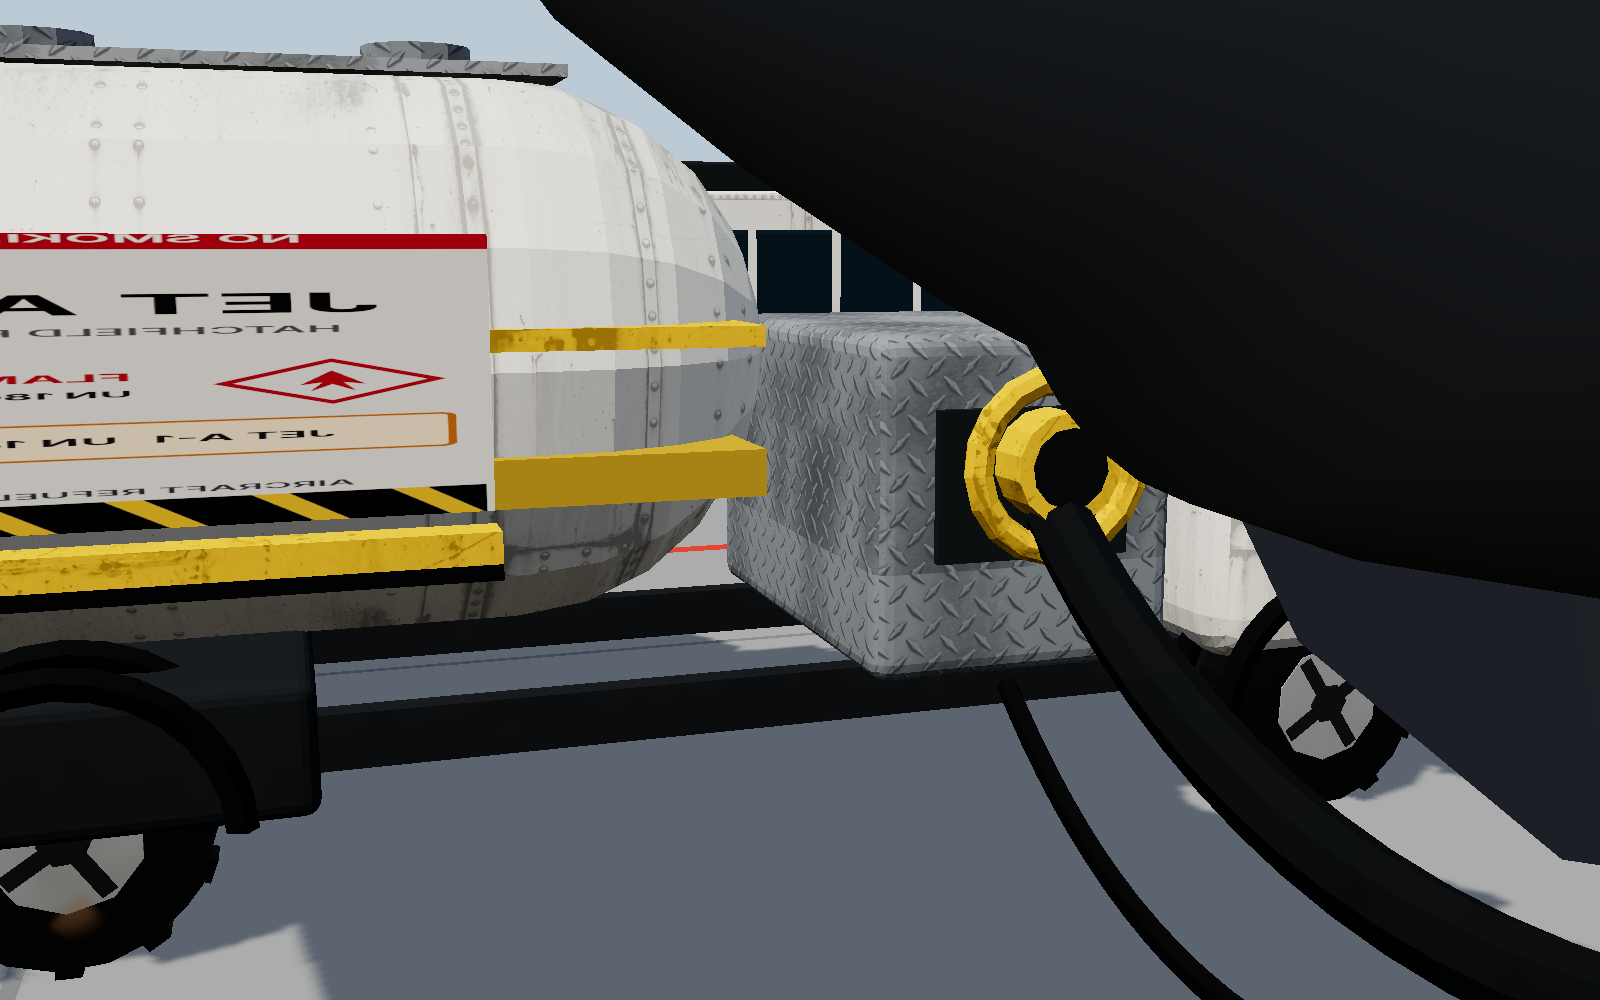
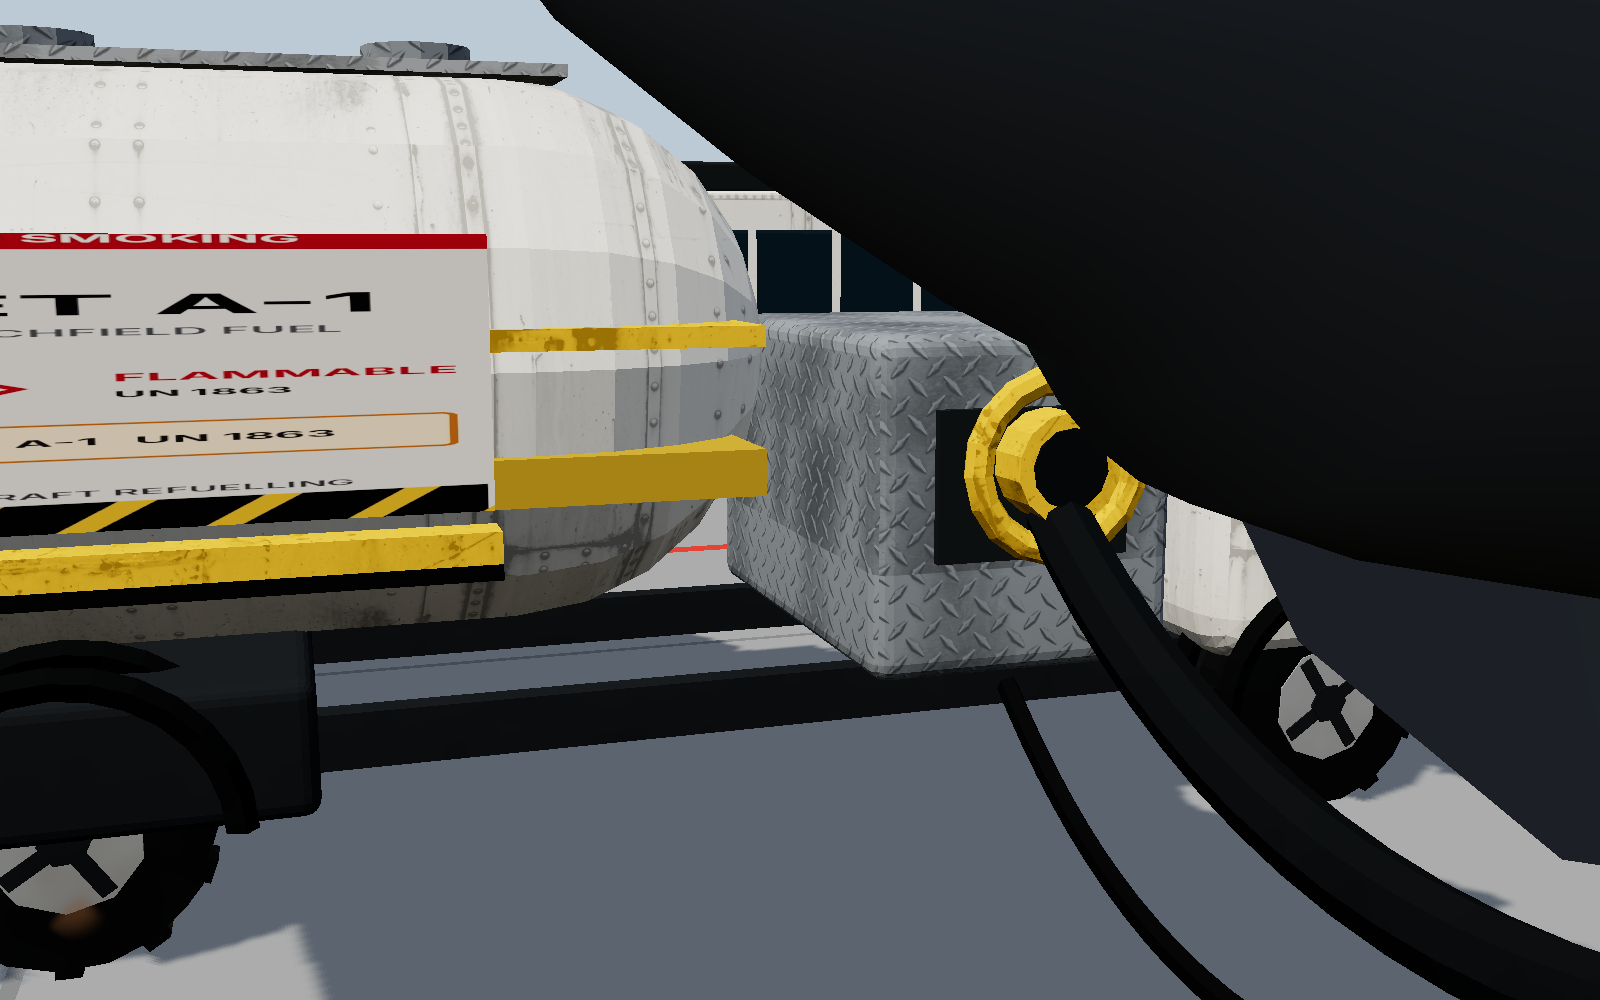
Unmirror apron placard text so both sides read outward.
U grows toward the viewer's right on each side, and a geometry check covers the five turnaround trucks.

diff --git a/src/render/vehicles.test.ts b/src/render/vehicles.test.ts
@@ -85,6 +85,18 @@ describe('ground vehicle models', () => {
     disposeVehicleRig(rig)
   })
 
+  it('reads placard text left to right from the outside of both sides', () => {
+    const kinds = ['fuel_truck', 'catering_truck', 'belt_loader', 'pushback_tug', 'pax_bus'] as const
+    for (const kind of kinds) {
+      const model = vehicleModel(kind)
+      const geos = [vehicleGeometry(kind, '#3a7bd5')]
+      for (const part of MODEL_PARTS[model]) geos.push(vehiclePartGeometry(kind, '#3a7bd5', part))
+      let sides = 0
+      for (const geo of geos) sides += placardSides(geo)
+      expect(sides, kind).toBe(2)
+    }
+  })
+
   it('paints a fictional side livery on each turnaround vehicle', () => {
     const kinds = ['fuel_truck', 'catering_truck', 'belt_loader', 'pushback_tug', 'pax_bus'] as const
     for (const kind of kinds) {
@@ -136,6 +148,60 @@ describe('ground vehicle models', () => {
     fleet.dispose()
   })
 })
+
+/**
+ * How many outward placard faces read left-to-right and right-side-up.
+ * U must increase toward the viewer's right; V must increase upward
+ * (texture v = 1 is the top of the atlas, where the words start).
+ */
+function placardSides(geo: THREE.BufferGeometry): number {
+  const pos = geo.getAttribute('position')
+  const uv = geo.getAttribute('uvm')
+  const tid = geo.getAttribute('tid')
+  if (!pos || !uv || !tid) return 0
+  const a = new THREE.Vector3()
+  const b = new THREE.Vector3()
+  const c = new THREE.Vector3()
+  const ab = new THREE.Vector3()
+  const ac = new THREE.Vector3()
+  const n = new THREE.Vector3()
+  const right = new THREE.Vector3()
+  const up = new THREE.Vector3(0, 1, 0)
+  const seen = new Set<number>()
+  let sides = 0
+  for (let i = 0; i + 2 < pos.count; i += 3) {
+    if (tid.getX(i) !== 6) continue
+    a.fromBufferAttribute(pos, i)
+    b.fromBufferAttribute(pos, i + 1)
+    c.fromBufferAttribute(pos, i + 2)
+    ab.subVectors(b, a)
+    ac.subVectors(c, a)
+    n.crossVectors(ab, ac)
+    if (n.lengthSq() < 1e-8 || Math.abs(n.z) < Math.abs(n.y)) continue
+    n.normalize()
+    const sign = n.z > 0 ? 1 : -1
+    if (seen.has(sign)) continue
+    right.crossVectors(n.clone().negate(), up).normalize()
+    const sample = [a, b, c]
+    const us = [uv.getX(i), uv.getX(i + 1), uv.getX(i + 2)]
+    const vs = [uv.getY(i), uv.getY(i + 1), uv.getY(i + 2)]
+    let left = 0
+    let rightI = 0
+    let low = 0
+    let high = 0
+    for (let k = 1; k < 3; k++) {
+      if (sample[k].dot(right) < sample[left].dot(right)) left = k
+      if (sample[k].dot(right) > sample[rightI].dot(right)) rightI = k
+      if (sample[k].y < sample[low].y) low = k
+      if (sample[k].y > sample[high].y) high = k
+    }
+    expect(us[rightI], `u ${sign > 0 ? '+' : '-'}Z`).toBeGreaterThan(us[left] + 1e-4)
+    expect(vs[high], `v ${sign > 0 ? '+' : '-'}Z`).toBeGreaterThan(vs[low] + 1e-4)
+    seen.add(sign)
+    sides++
+  }
+  return sides
+}
 
 /** Vertices in the whole model: static shell plus every animated part. */
 function fullCount(model: (typeof ALL_MODELS)[number], color = '#3a7bd5'): number {

diff --git a/src/render/vehicleModels.ts b/src/render/vehicleModels.ts
@@ -424,8 +424,9 @@ class Kit {
   }
 
   /**
-   * Side sign from the shared livery atlas. +X is the nose, so the words
-   * read correctly when you stand on either side of the truck.
+   * Side sign from the shared livery atlas. The plane faces outward.
+   * On the +Z side the nose (+X) is to the viewer's right, so U grows with X.
+   * On the -Z side the nose is to the viewer's left, so U runs the other way.
    * `z` is how far outside the centreline the sign sits.
    */
   livery(cell: number, w: number, h: number, x: number, y: number, z: number, face: 1 | -1, name = '') {
@@ -454,7 +455,7 @@ class Kit {
     for (let i = 0; i < pos.count; i++) {
       let u = (pos.getX(i) - x0) / dx
       const v = (pos.getY(i) - y0) / dy
-      if (face > 0) u = 1 - u
+      if (face < 0) u = 1 - u
       uv.setXY(i, (cell + 0.02 + u * 0.96) / LIVERY_CELLS, 0.02 + v * 0.96)
     }
   }

diff --git a/scripts/veh-apron.html b/scripts/veh-apron.html
@@ -194,6 +194,7 @@ window.renderAt = (t) => {
   people.update(agents, cam, dt)
   window.__agents = agents.length; window.__stats = { ...people.stats }
   if (CAM === 'fuel') { cam.position.set(1.0, 2.5, -5.8); cam.lookAt(3.2, 1.35, -12.4) }
+  else if (CAM === 'fuelport') { cam.position.set(1.2, 2.4, -18.6); cam.lookAt(2.2, 1.5, -12.6) }
   else if (CAM === 'fueltail') { cam.position.set(-8.4, 1.7, -11.2); cam.lookAt(-2.6, 1.6, -12.3) }
   else if (CAM === 'belt') { cam.position.set(-16, 5.5, 13); cam.lookAt(-8, 2.4, 4.2) }
   else if (CAM === 'junction') { cam.position.set(-30 + 34 * Math.cos(0.7 + t * 0.012), 30, 30 + 34 * Math.sin(0.7 + t * 0.012) + 10); cam.lookAt(-30, 0, 30) }
